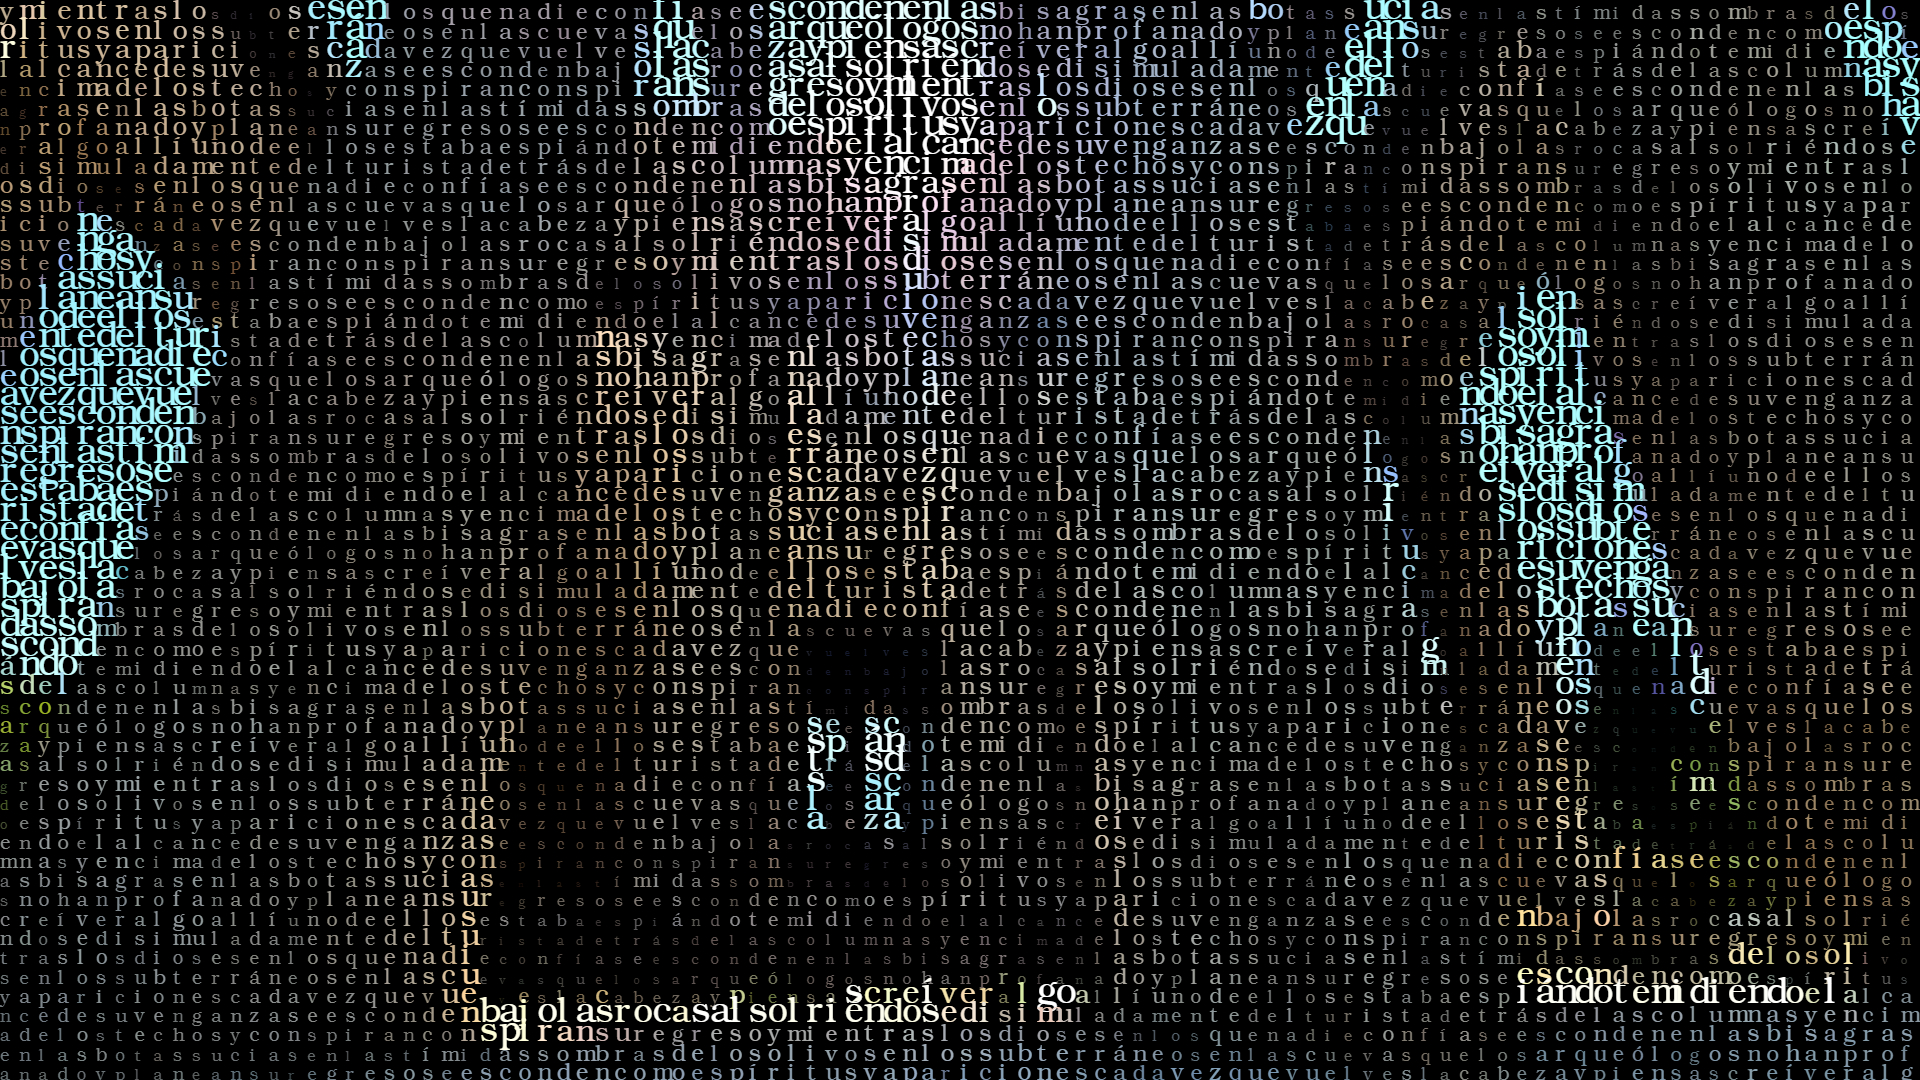
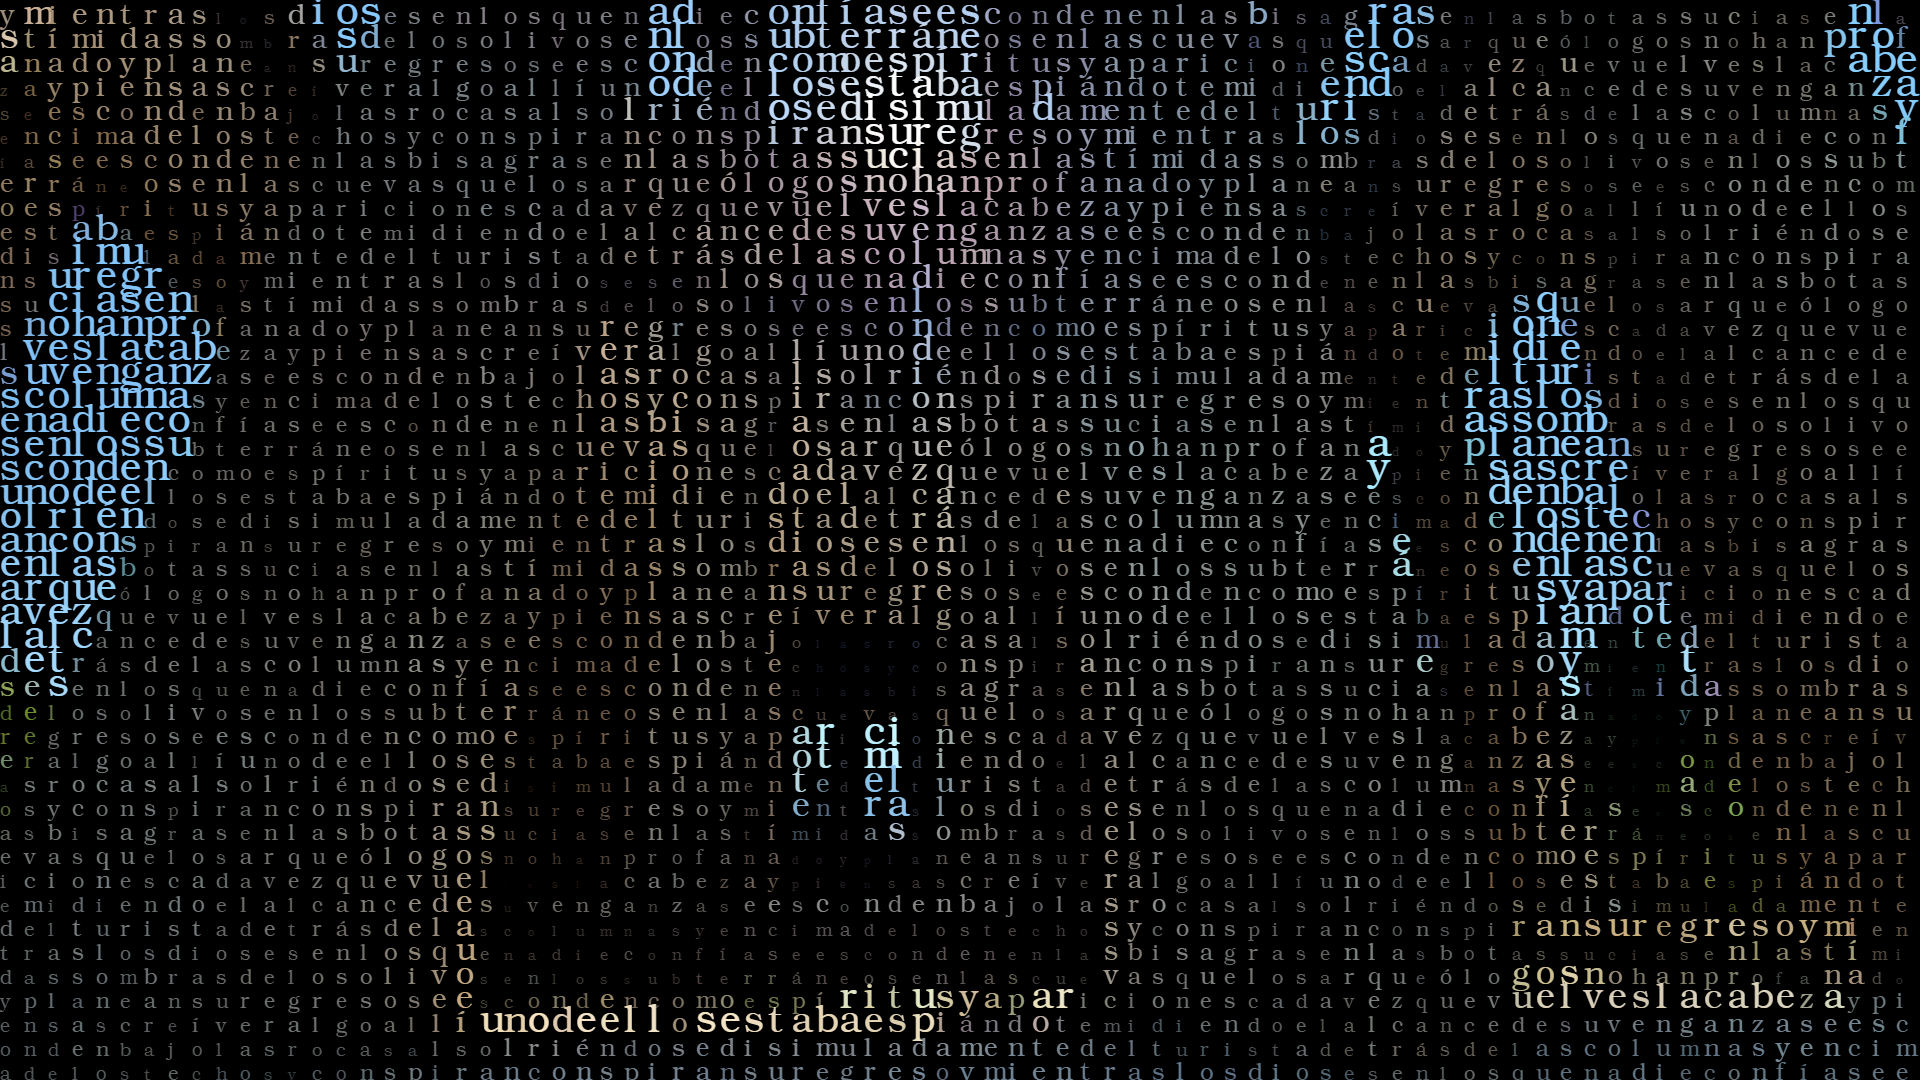
Adding dioses

diff --git a/README.md b/README.md
@@ -7,11 +7,12 @@ I'm a philosopher. The worst student of Socrates. This is my blog.
 TODO:
 
 - [ ] mover el diletante digital a un subdominio
-- [ ] Que las imagenes tengan el caption correcto
+- [ ] undefined en aArt
+- [ ] ]
 
 Test:
 
-- [ ] Que las imágenes se muestren grandes como en edd
+
 - [ ] El texto de los títulos es muy grande salvo en el teléfono en portrait
 - [ ] Boton de submit
 - [ ] El boton de comprame un cafe tine mucho paading por los lados
